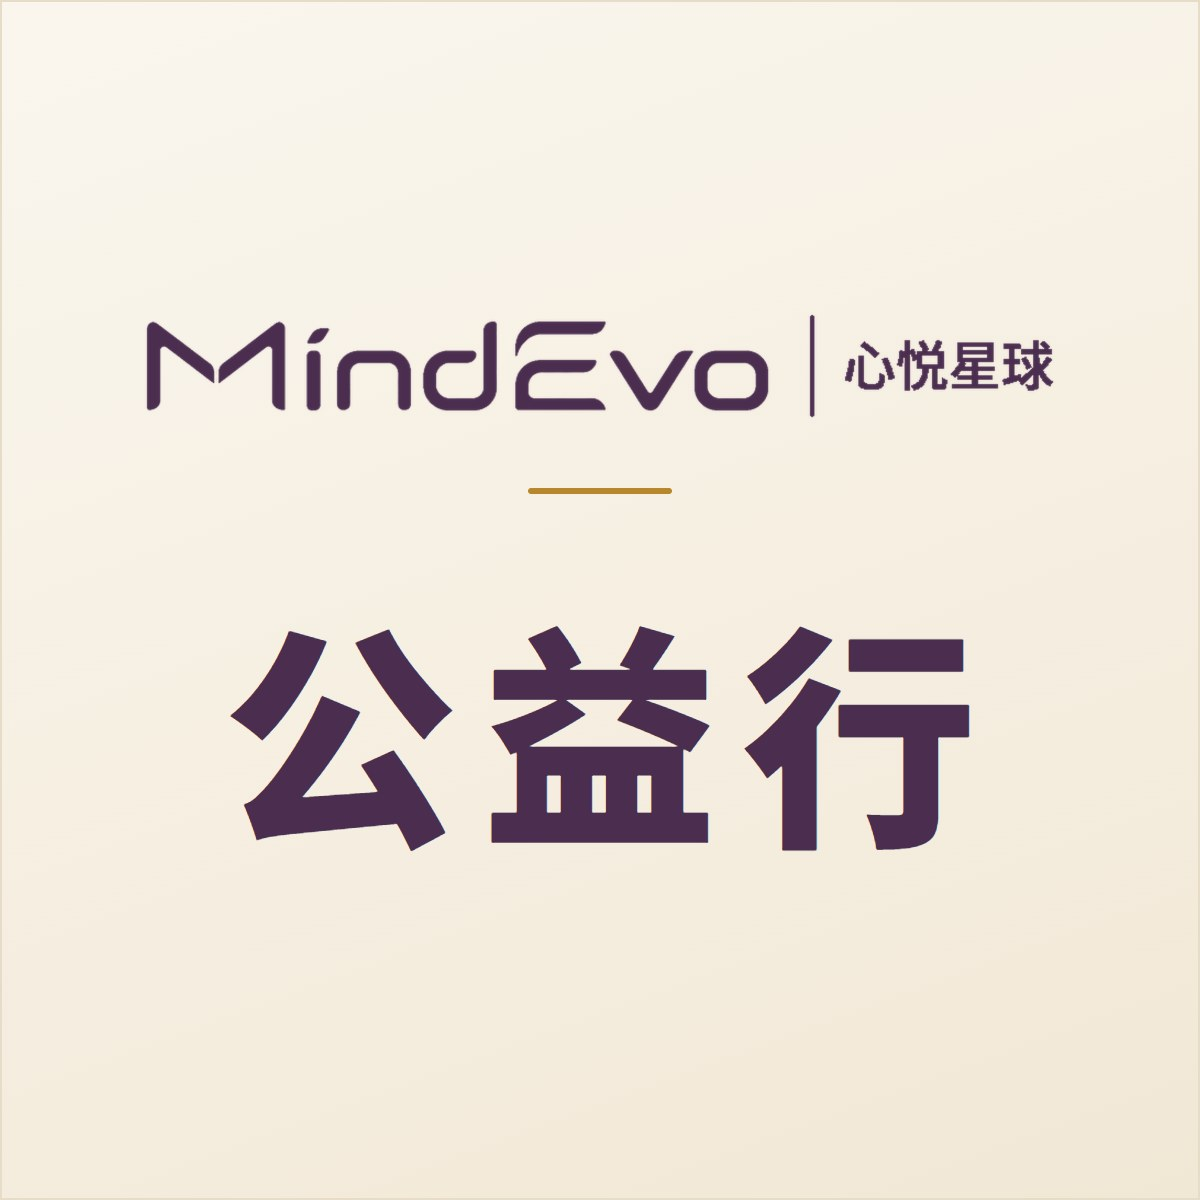
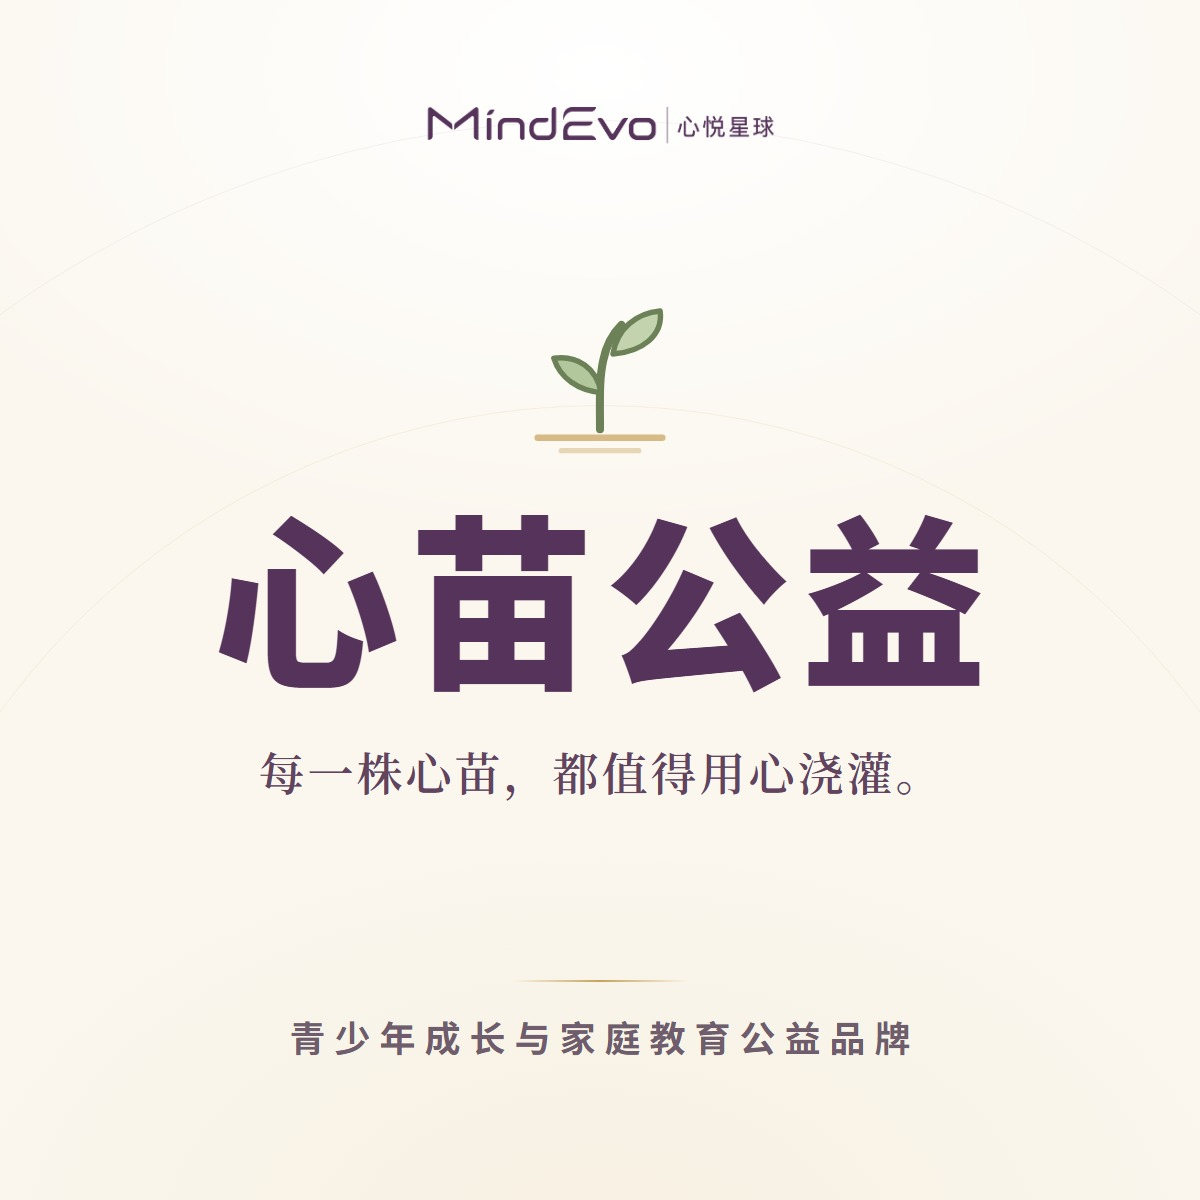
Redesign WeChat share cover for 心苗公益 (WebP primary, JPG fallback); drop orphaned cares cover

diff --git a/xinmiao/index.html b/xinmiao/index.html
@@ -10,7 +10,8 @@
   <meta property="og:type" content="website">
   <meta property="og:title" content="心悦星球·心苗公益">
   <meta property="og:description" content="把听得懂、用得上的家庭教育与心理支持送到您的身边。">
-  <meta property="og:image" content="https://www.mindevo.club/xinmiao/og-xinmiao.jpg">
+  <meta property="og:image" content="https://www.mindevo.club/xinmiao/og-xinmiao.webp">
+  <meta property="og:image:type" content="image/webp">
   <meta property="og:image:width" content="1200">
   <meta property="og:image:height" content="1200">
   <meta property="og:url" content="https://www.mindevo.club/xinmiao/">
